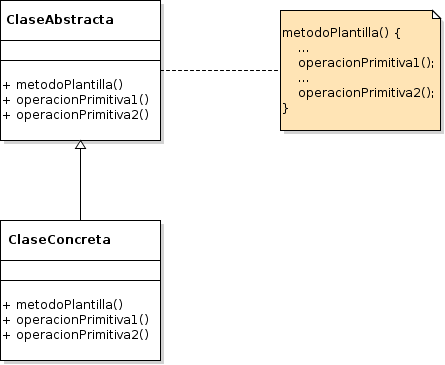
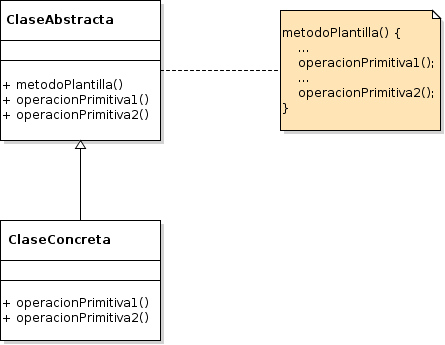
Fix uml template method

diff --git a/diagramas/comportamiento/templatemethod.class.violet.html b/diagramas/comportamiento/templatemethod.class.violet.html
@@ -63,8 +63,7 @@
         <text></text>
       </attributes>
       <methods id="18" justification="0" size="4" underlined="false">
-        <text>+ metodoPlantilla()
-+ operacionPrimitiva1()
+        <text>+ operacionPrimitiva1()
 + operacionPrimitiva2()</text>
       </methods>
     </ClassNode>
@@ -119,169 +118,161 @@
 </ClassDiagramGraph>]]></SCRIPT>
 	<BR />
 	<BR />
[163 lines of base64/hex data omitted]
-RU5ErkJg" />
[155 lines of base64/hex data omitted]
+d/nAkTsAAAAASUVORK5C" />
 </BODY>
 </HTML>
